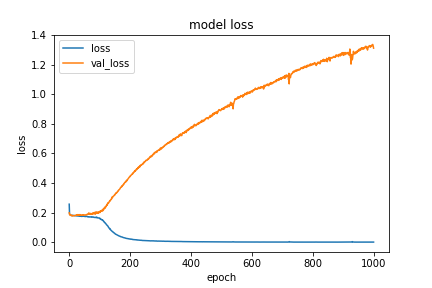
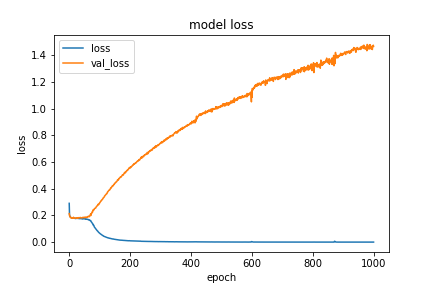
update
fix validation bug

diff --git a/Performer/Performer_local_V4/DataGeneratorValidation.py b/Performer/Performer_local_V4/DataGeneratorValidation.py
@@ -2,7 +2,7 @@ import numpy as np
 import keras
 import DataBuffer as db
 
-#for error line block detection 
+#for error line block detection
 #input: list_IDs=a list of encoder_input_ids
 #output: [out1, out2]
 #out1: [e1, e2, ..., e36], ei is either 0 or 1
@@ -10,28 +10,28 @@ import DataBuffer as db
 
 class DataGeneratorValidation(keras.utils.Sequence):
     'Generates data for Keras'
-    def __init__(self, 
+    def __init__(self,
                  input_databuffer_params,
-                 output_databuffer_params, 
-                 list_IDs,  
+                 output_databuffer_params,
+                 list_IDs,
                  batch_size=64, #defult 2048
-                 total_error_types=36, 
+                 total_error_types=36,
                  max_text_len=1000, #default 2769
-                 max_lines=160, 
-                 max_lbs=360, 
+                 max_lines=160,
+                 max_lbs=360,
                  shuffle=True
                 ):
         'Initialization'
         self.total_error_types = total_error_types
         self.max_text_len = max_text_len
         self.batch_size = batch_size
-        self.max_lines = max_lines 
+        self.max_lines = max_lines
         self.max_lbs = max_lbs
         #self.err_labels = err_labels # out 1
         #self.messages = messages #out 2
         self.list_IDs = list_IDs
         self.shuffle = shuffle
-        self.input_databuffer_params = input_databuffer_params        
+        self.input_databuffer_params = input_databuffer_params
         self.output_databuffer_params = output_databuffer_params
         # Generate input data buffer
         data_path = self.input_databuffer_params["data_path"]
@@ -44,8 +44,8 @@ class DataGeneratorValidation(keras.utils.Sequence):
         data_number = self.output_databuffer_params["data_number"]
         data_type = self.output_databuffer_params["data_type"]
         block_size = self.output_databuffer_params["block_size"]
-        self.dby1 = db.DataBuffer(data_path[0], data_number[0], data_type[0], block_size[0], file_name = "y_train[0]_")
-        self.dby2 = db.DataBuffer(data_path[1], data_number[1], data_type[1], block_size[1], file_name = "y_train[1]_")
+        self.dby1 = db.DataBuffer(data_path[0], data_number[0], data_type[0], block_size[0], file_name = "y_validation[0]_")
+        self.dby2 = db.DataBuffer(data_path[1], data_number[1], data_type[1], block_size[1], file_name = "y_validation[1]_")
 
         self.on_epoch_end()
 
@@ -91,7 +91,7 @@ class DataGeneratorValidation(keras.utils.Sequence):
         self.dbx1.initialize()
         self.dby1.initialize()
         self.dby2.initialize()
-        
+
         if self.shuffle == True:
             np.random.shuffle(self.indexes)
 
@@ -107,7 +107,7 @@ class DataGeneratorValidation(keras.utils.Sequence):
         print("y2[0] shape: ", y2[0].shape)
         '''
         '''
-        print("list_IDs_temp type: ", type(list_IDs_temp))        
+        print("list_IDs_temp type: ", type(list_IDs_temp))
         print("list_IDs_temp lenght: ", len(list_IDs_temp))
         print("list_IDs_temp[0] type: ", type(list_IDs_temp[0]))
         #print("list_IDs_temp[0] lenght: ", len(list_IDs_temp[0]))
@@ -129,7 +129,7 @@ class DataGeneratorValidation(keras.utils.Sequence):
             #print("X1[i]: ", X1[i])
             #print("X1[i] lenght: ", len(X1[i]))
             #X1[i,] = self.dbx1.get_data(ID) # a list of token ids
-            # out1: a binary vector of total_error_types (36) elements, 
+            # out1: a binary vector of total_error_types (36) elements,
             y1[i] = self.dby1.get_data(ID) #a 36-length vector
             #print("y1[i]: ", y1[i])
             #print("y1[i] length: ", len(y1[i]))
@@ -150,7 +150,7 @@ class DataGeneratorValidation(keras.utils.Sequence):
                 y2 = [(lambda a, b: np.concatenate((a, b)))(a1,a2) for a1, a2 in zip(y2, y2_temp)]
             #print("y2[i]: ", y2[i])
             '''
-            print("y2 length: ", len(y2)) #show line block size 
+            print("y2 length: ", len(y2)) #show line block size
             print("y2[0] shape: ", y2[0].shape) #show sample
             '''
             #print("y2[i][1] length: ", len(y2[i][1])) #show single block size

diff --git a/Performer/Performer_local_V4/Ploter.py b/Performer/Performer_local_V4/Ploter.py
@@ -18,6 +18,16 @@ def plotTrainingLoss(file_path, history):
     plt.savefig(file_path + "/" + "TrainingLoss.png")
     plt.show()
 
+def plotTrainingErrorTypeAccErrorVer(file_path, history):
+    plt.plot(history["binary_accuracy"], label = "acc")
+    plt.plot(history["val_binary_accuracy"], label = "val_acc")
+    plt.title("model accuary")
+    plt.ylabel("accuary")
+    plt.xlabel("epoch")
+    plt.legend()
+    plt.savefig(file_path + "/" + "TrainingErrorTypeAccErrorVer.png")
+    plt.show()
+    pass
 
 #draw output1 binary acc
 def plotTrainingErrorTypeAcc(file_path, history):
@@ -143,6 +153,5 @@ def showAllGraphicErrorTypeVer(file_path, file, debugMode = False):
     if debugMode == True:
         print("history.keys: ", history.keys())
     plotTrainingLoss(file_path, history)
-    plotTrainingErrorTypeLoss(file_path, history)
-    plotTrainingErrorTypeAcc(file_path, history)
+    plotTrainingErrorTypeAccErrorVer(file_path, history)
     pass

diff --git a/Performer/Performer_local_V4/ModelScoreRater.py b/Performer/Performer_local_V4/ModelScoreRater.py
@@ -109,6 +109,7 @@ def out_line_adjustment(out_line):
 def loadmodelErrorTypeVer(model_path, model_name, x_y_path, x_test_model, y_test_model_0, source_max_lan, debugMode):
     import numpy as np
     model = loadErrorTypeVer(model_path, model_name)
+    #print("Model summary: ", model.summary())
     '''
     Para:
         x_test_loaded  : answer model           (include type and lineblock)
